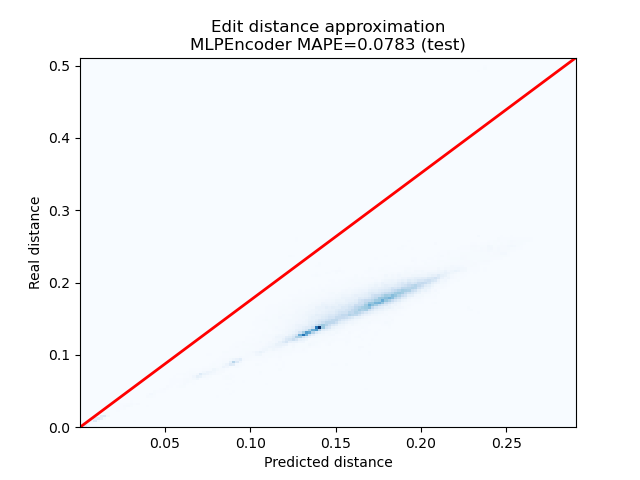
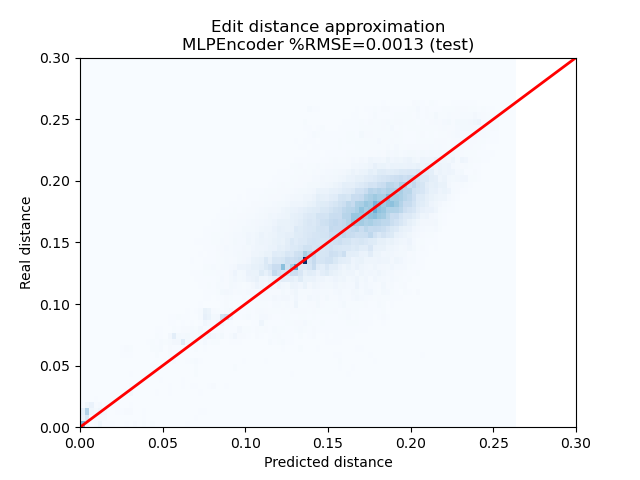
fix axis in figs

diff --git a/src/visualization/visualize.py b/src/visualization/visualize.py
@@ -5,14 +5,16 @@ def plot_edit_distance_approximation(y_pred, y_true, model_name, dataset, percen
     
     fig, ax = plt.subplots()
     
-    plt.hist2d(y_pred, y_true, bins=150, cmap='Blues')
-    plt.plot([0, 1], [0, 1], transform=ax.transAxes, color='red', linewidth=2)
+    plt.hist2d(y_pred, y_true, bins=100, cmap='Blues')
+    plt.plot([0, 1], [0, 1], linewidth=2, color='red')
     
-    plt.title('Edit distance approximation\n{} %RMSE={:.4f} ({})'.format(model_name, percent_rmse, dataset))
-    ax.set(xlabel='Predicted distance', ylabel='Real distance')
+    title = 'Edit distance approximation\n{} %RMSE={:.4f} ({})'.format(model_name, percent_rmse, dataset)
+    plt.title(title)
+    ax.set(xlabel='Predicted distance', ylabel='Real distance', xlim=[0, 0.3], ylim=[0, 0.3])
    
     filename = 'reports/figures/{}_{}.png'.format(model_name, dataset)
     directory = os.path.dirname(filename)
     if directory != '' and not os.path.exists(directory):
         os.makedirs(directory)
     fig.savefig(filename)
+    return fig
